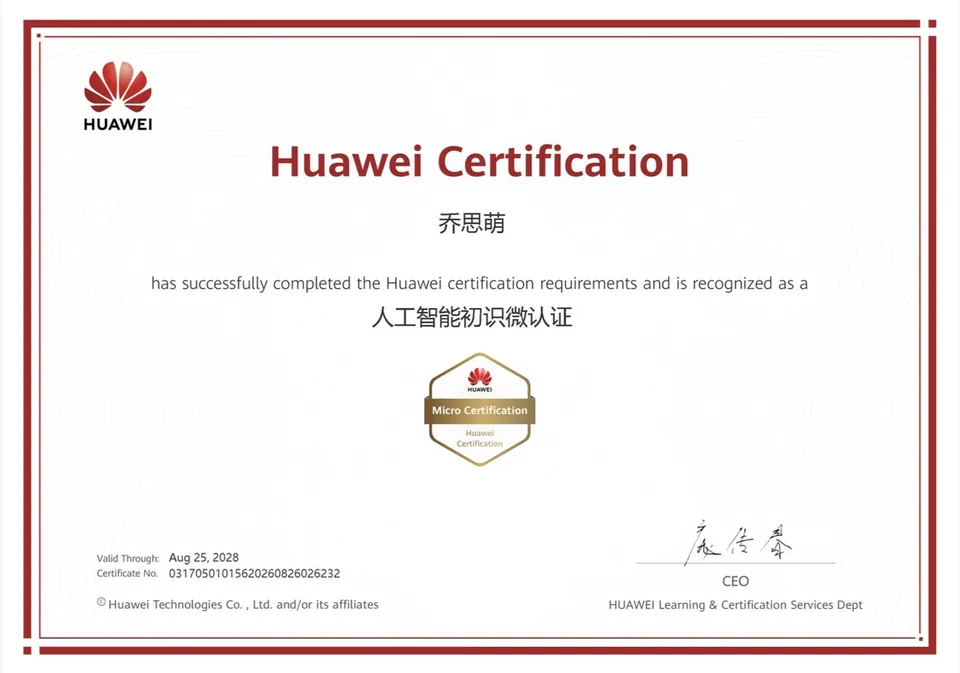
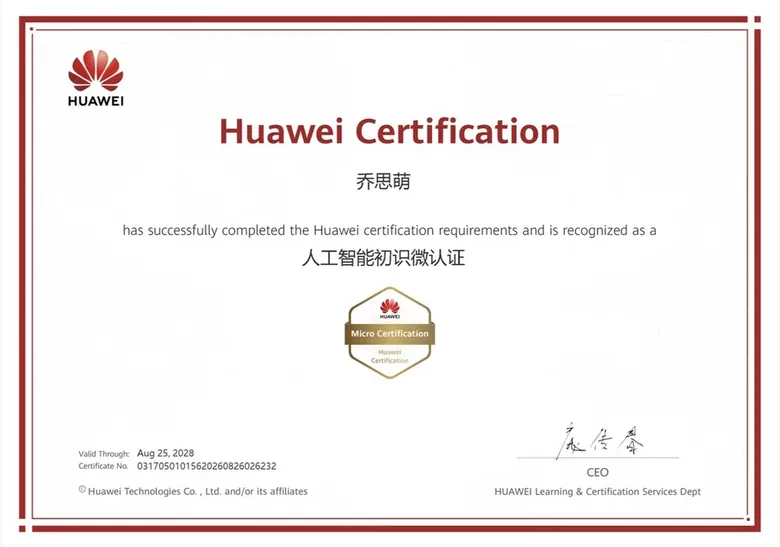
Cut gate payload 17.1MB -> 10.7MB and image decode 291MB -> 29MB
The 'wait for every image' gate was taking 10+ minutes. Root causes, in order
of impact:

1. The blocking list included images that are only ever seen AFTER a click
   (11 certificate originals, 4 work detail banners, the resume evidence
   image, the NOVA gallery) plus 5 covers that nothing on the site
   referenced at all. 43 requests totalling 7.32 MB / 290.8 MB decoded.
2. All 43 were fired at once, saturating the connection pool and pushing
   the 8.5 MB model to the back of the queue.
3. The Image objects were only held in local variables, so in-flight loads
   were eligible for GC - if one was collected its callback never fired and
   the bar hung permanently.
4. onload was treated as 'ready', but it only means the bytes arrived; the
   real decode still happened during scrolling.
5. No timeout, so any stall trapped the visitor behind the gate.

What changed - visual quality is untouched throughout:

- Blocking set is now ONLY what is visible on the homepage (21 images,
  0.95 MB / 29.0 MB decoded). Click-only images moved to a deferred set
  (2.49 MB) warmed at idle after entrance, so clicking a certificate or a
  work still opens instantly.
- Images resized to their real display size x2 (retina-safe) and stored as
  WebP: certificate thumbs 960->780 (cards are max 390px), paper texture
  1672->560 (CSS tiles it at exactly 560px, so this is pixel-identical),
  detail banners 2800->2000, certificate originals 2800->2400 at q88 so
  certificate text stays crisp.
[…]

Changed region(s): [[0.5231, 0.4662, 0.5538, 0.4973], [0.4615, 0.4662, 0.4923, 0.4973]]

diff --git a/web/src/preloadAssets.ts b/web/src/preloadAssets.ts
@@ -34,63 +34,60 @@ const heroBytes = HERO_BACKGROUND_URL.includes('hero-scrapbook-mobile')
     ? 133_706
     : 196_272
 
-// 首页滚动时可见的图片（正常优先级，先加载）。
-// 字节数与 public/ 下的实际文件一致，用于让进度条按真实体积加权。
-const HOMEPAGE_IMAGES: ReadonlyArray<{ path: string; bytes: number }> = [
-  { path: 'images/bp.png', bytes: 8_391 },
-  { path: 'images/buzyzheng.png', bytes: 290_268 },
-  { path: 'images/english-competition-image-two.png', bytes: 359_151 },
-  { path: 'images/hotsar.jpg', bytes: 6_760 },
-  { path: 'scrapbook/paper-texture-seamless.webp', bytes: 65_336 },
-  { path: 'scrapbook/polaroid-frame-1.webp', bytes: 112_534 },
-  { path: 'works/covers/ad.jpg', bytes: 161_220 },
-  { path: 'works/covers/ai.png', bytes: 245_951 },
-  { path: 'works/covers/economics.png', bytes: 229_203 },
-  { path: 'works/covers/expression-writing-image-one.png', bytes: 737_849 },
-  { path: 'works/covers/expression.png', bytes: 250_891 },
-  { path: 'works/covers/graphics.jpg', bytes: 157_328 },
-  { path: 'works/covers/maker.jpg', bytes: 92_488 },
-  { path: 'works/covers/product.jpg', bytes: 210_535 },
-  { path: 'works/covers/programming.png', bytes: 572_984 },
+// 阻塞开门的图片：只包含「进入主页就能看到」的部分。
+//
+// 之前把 43 张图（含点击才看的证书原图、详情 banner）全部塞进开门条件，
+// 实测导致进度条十几分钟都走不完，且解码内存高达 290MB。现在改为：
+//   · 进门可见的图 —— 照常等待，且尺寸已优化到显示尺寸的 2 倍（视网膜屏无损）
+//   · 点击才看的图 —— 画质完全不变，改为进门后空闲预热，不再占用开门时间
+// 字节数与 public/ 下的实际文件一致，保证进度条按真实体积加权。
+const BLOCKING_IMAGES: ReadonlyArray<{ path: string; bytes: number }> = [
   { path: 'works/optimized/ai-cover.webp', bytes: 51_368 },
   { path: 'works/optimized/economics-cover.webp', bytes: 47_548 },
   { path: 'works/optimized/expression-writing-cover.webp', bytes: 59_158 },
   { path: 'works/optimized/programming-cover.webp', bytes: 45_226 },
   { path: 'works/optimized/project-nova-cover.webp', bytes: 35_760 },
-  { path: 'works/nova/gallery-composite.jpg', bytes: 237_945 },
-  { path: 'certificates/thumbs/certificate-agent-engineer-ant.webp', bytes: 38_428 },
-  { path: 'certificates/thumbs/certificate-agent-engineer-iflytek.webp', bytes: 56_064 },
-  { path: 'certificates/thumbs/certificate-ai-coding-marscode.webp', bytes: 37_276 },
-  { path: 'certificates/thumbs/certificate-ai4s-python.webp', bytes: 49_570 },
-  { path: 'certificates/thumbs/certificate-alibaba-cloud-clouder.webp', bytes: 40_002 },
-  { path: 'certificates/thumbs/certificate-finetuning-engineer.webp', bytes: 55_726 },
-  { path: 'certificates/thumbs/certificate-huawei-ai-fundamentals.webp', bytes: 24_644 },
-  { path: 'certificates/thumbs/certificate-llm-development-datawhale.webp', bytes: 34_030 },
-  { path: 'certificates/thumbs/certificate-llm-engineer-virtai.webp', bytes: 47_596 },
-  { path: 'certificates/thumbs/certificate-prompt-engineer-iflytek.webp', bytes: 55_906 },
-  { path: 'certificates/thumbs/certificate-prompt-engineer-spark.webp', bytes: 36_060 },
+  { path: 'certificates/thumbs/certificate-agent-engineer-ant.webp', bytes: 28_242 },
+  { path: 'certificates/thumbs/certificate-agent-engineer-iflytek.webp', bytes: 37_244 },
+  { path: 'certificates/thumbs/certificate-ai-coding-marscode.webp', bytes: 28_586 },
+  { path: 'certificates/thumbs/certificate-ai4s-python.webp', bytes: 35_372 },
+  { path: 'certificates/thumbs/certificate-alibaba-cloud-clouder.webp', bytes: 27_798 },
+  { path: 'certificates/thumbs/certificate-finetuning-engineer.webp', bytes: 37_066 },
+  { path: 'certificates/thumbs/certificate-huawei-ai-fundamentals.webp', bytes: 17_252 },
+  { path: 'certificates/thumbs/certificate-llm-development-datawhale.webp', bytes: 26_144 },
+  { path: 'certificates/thumbs/certificate-llm-engineer-virtai.webp', bytes: 34_460 },
+  { path: 'certificates/thumbs/certificate-prompt-engineer-iflytek.webp', bytes: 37_152 },
+  { path: 'certificates/thumbs/certificate-prompt-engineer-spark.webp', bytes: 26_530 },
+  { path: 'scrapbook/paper-texture-seamless.webp', bytes: 6_598 },
+  { path: 'scrapbook/polaroid-frame-1.webp', bytes: 112_534 },
+  { path: 'images/buzyzheng.png', bytes: 290_268 },
+  { path: 'images/bp.png', bytes: 8_391 },
+  { path: 'images/hotsar.jpg', bytes: 6_760 },
 ]
 
-// 点击才查看的证书原图：开门前同样要等它就绪，但用 low 优先级，
-// 不与 3D 人物模型抢带宽（模型先到，原图随后补齐）。
-const CLICK_ONLY_IMAGES: ReadonlyArray<{ path: string; bytes: number }> = [
-  { path: 'certificates/originals/certificate-agent-engineer-ant.png', bytes: 346_365 },
-  { path: 'certificates/originals/certificate-agent-engineer-iflytek.png', bytes: 365_016 },
-  { path: 'certificates/originals/certificate-ai-coding-marscode.png', bytes: 148_570 },
-  { path: 'certificates/originals/certificate-ai4s-python.png', bytes: 452_837 },
-  { path: 'certificates/originals/certificate-alibaba-cloud-clouder.png', bytes: 198_017 },
-  { path: 'certificates/originals/certificate-finetuning-engineer.png', bytes: 363_057 },
-  { path: 'certificates/originals/certificate-huawei-ai-fundamentals.png', bytes: 165_136 },
-  { path: 'certificates/originals/certificate-llm-development-datawhale.png', bytes: 118_646 },
-  { path: 'certificates/originals/certificate-llm-engineer-virtai.png', bytes: 384_353 },
-  { path: 'certificates/originals/certificate-prompt-engineer-iflytek.png', bytes: 363_434 },
-  { path: 'certificates/originals/certificate-prompt-engineer-spark.png', bytes: 319_779 },
+// 点击才查看的图片：画质保持原样（证书 2400px、详情 banner 2000px），
+// 但不在开门时下载；进门后空闲时段再低优先级预热，保证真点开时依然秒开。
+const DEFERRED_IMAGES: ReadonlyArray<string> = [
+  'certificates/originals/certificate-agent-engineer-ant.webp',
+  'certificates/originals/certificate-agent-engineer-iflytek.webp',
+  'certificates/originals/certificate-ai-coding-marscode.webp',
+  'certificates/originals/certificate-ai4s-python.webp',
+  'certificates/originals/certificate-alibaba-cloud-clouder.webp',
+  'certificates/originals/certificate-finetuning-engineer.webp',
+  'certificates/originals/certificate-huawei-ai-fundamentals.webp',
+  'certificates/originals/certificate-llm-development-datawhale.webp',
+  'certificates/originals/certificate-llm-engineer-virtai.webp',
+  'certificates/originals/certificate-prompt-engineer-iflytek.webp',
+  'certificates/originals/certificate-prompt-engineer-spark.webp',
+  'works/covers/ai.webp',
+  'works/covers/economics.webp',
+  'works/covers/expression-writing-image-one.webp',
+  'works/covers/programming.webp',
+  'images/english-competition-image-two.png',
+  'works/nova/gallery-composite.webp',
 ]
 
-const IMAGE_MANIFEST: ReadonlyArray<{ path: string; bytes: number; lowPriority: boolean }> = [
-  ...HOMEPAGE_IMAGES.map((image) => ({ ...image, lowPriority: false })),
-  ...CLICK_ONLY_IMAGES.map((image) => ({ ...image, lowPriority: true })),
-]
+const IMAGE_MANIFEST = BLOCKING_IMAGES
 
 const IMAGE_TOTAL_BYTES = IMAGE_MANIFEST.reduce((sum, image) => sum + image.bytes, 0)
 
@@ -253,36 +250,97 @@ function installHeroTimingObserver() {
   observer.observe({ type: 'resource', buffered: true })
 }
 
-// 预热全部图片并把完成度计入进度条。图片不走 fetch，因此按「每张完成即计入其
-// 体积」累加到聚合资源上——43 张图足以让进度条平滑推进。
+// 预热「进门即可见」的图片并计入进度。
+//
+// 修正了导致「10 分钟没下载完」的四个问题：
+//  1. 限并发（6）——之前 43 张一次性打出，把连接池打满，8.5MB 的 3D 模型被挤到队尾，
+//     总体反而更慢；限并发后模型先下完，总耗时更短。
+//  2. 持有 Image 引用——之前图片只存在局部变量里，未完成的加载可能被 GC 取消，
+//     回调永不触发，进度条会永久卡住（最可能的卡死原因）。
+//  3. 用 decode()——onload 只代表字节到达，不代表可以无成本绘制；
+//     decode() 之后「100%」才真正等于可用，滚动时不会再有解码掉帧。
+//  4. 硬超时——任何异常都不会把访客永久挡在门外。
+const IMAGE_CONCURRENCY = 6
+const IMAGE_TIMEOUT_MS = 20_000
+const pendingImages: HTMLImageElement[] = [] // 持有引用，防止未完成的加载被 GC
+
 function preloadImages() {
   const aggregate = resources.images
   if (aggregate.ready) return
   let settled = 0
   let loaded = 0
+  let stopped = false
 
-  const registerDone = (bytes: number) => {
-    loaded = Math.min(loaded + bytes, aggregate.totalBytes)
-    aggregate.loadedBytes = loaded
-    settled += 1
-    if (settled >= IMAGE_MANIFEST.length) {
-      aggregate.loadedBytes = aggregate.totalBytes
-      aggregate.downloadComplete = true
-      aggregate.ready = true
-    }
+  const finish = () => {
+    if (aggregate.ready) return
+    aggregate.loadedBytes = aggregate.totalBytes
+    aggregate.downloadComplete = true
+    aggregate.ready = true
     publish()
   }
 
-  IMAGE_MANIFEST.forEach(({ path, bytes, lowPriority }) => {
+  const registerDone = (bytes: number) => {
+    if (stopped) return
+    loaded = Math.min(loaded + bytes, aggregate.totalBytes)
+    aggregate.loadedBytes = loaded
+    settled += 1
+    if (settled >= IMAGE_MANIFEST.length) finish()
+    else publish()
+  }
+
+  // 硬超时兜底
+  window.setTimeout(() => {
+    stopped = true
+    finish()
+  }, IMAGE_TIMEOUT_MS)
+
+  let cursor = 0
+  const startNext = () => {
+    if (stopped || cursor >= IMAGE_MANIFEST.length) return
+    const entry = IMAGE_MANIFEST[cursor]
+    cursor += 1
     const image = new Image()
     image.decoding = 'async'
-    // 证书原图低优先级：仍然计入进度、仍然阻塞开门，但不与 3D 模型争夺带宽
-    if (lowPriority && 'fetchPriority' in image) image.fetchPriority = 'low'
-    // 单张失败不阻塞开门：照常计入完成，避免一张 404 让进度条永远停在 99%
-    image.onload = () => registerDone(bytes)
-    image.onerror = () => registerDone(bytes)
-    image.src = absoluteAssetUrl(path)
-  })
+    pendingImages.push(image)
+    const done = () => {
+      registerDone(entry.bytes)
+      startNext() // 完成一个补一个，维持有限并发
+    }
+    image.onload = () => {
+      // decode() 让「100%」代表真正可用，而不是仅代表下载完成
+      const withDecode = image as HTMLImageElement & { decode?: () => Promise<void> }
+      if (typeof withDecode.decode === 'function') {
+        withDecode.decode().then(done, done)
+      } else {
+        done()
+      }
+    }
+    image.onerror = done // 单张失败不阻塞开门
+    image.src = absoluteAssetUrl(entry.path)
+  }
+
+  for (let i = 0; i < IMAGE_CONCURRENCY; i += 1) startNext()
+}
+
+// 进门之后再空闲预热「点击才看」的图：画质完全不变，只是不与开门抢带宽。
+let deferredWarmed = false
+export function warmDeferredImages() {
+  if (deferredWarmed || typeof window === 'undefined') return
+  deferredWarmed = true
+  const run = () => {
+    DEFERRED_IMAGES.forEach((path) => {
+      const image = new Image()
+      image.decoding = 'async'
+      if ('fetchPriority' in image) image.fetchPriority = 'low'
+      pendingImages.push(image)
+      image.src = absoluteAssetUrl(path)
+    })
+  }
+  const idle = (window as unknown as {
+    requestIdleCallback?: (cb: () => void, o?: { timeout: number }) => number
+  }).requestIdleCallback
+  if (idle) idle(run, { timeout: 6_000 })
+  else window.setTimeout(run, 3_000)
 }
 
 export function preloadCriticalAssets() {

diff --git a/web/src/data/certificates.ts b/web/src/data/certificates.ts
@@ -23,7 +23,7 @@ export const CERTIFICATES: Certificate[] = [
     category: { zh: '大模型 · 智能体', en: 'LLM · Agent' },
     date: { zh: '有效至 2028.08.01', en: 'Valid through 2028.08.01' },
     thumbnail: `${base}certificates/thumbs/certificate-alibaba-cloud-clouder.webp`,
-    original: `${base}certificates/originals/certificate-alibaba-cloud-clouder.png`,
+    original: `${base}certificates/originals/certificate-alibaba-cloud-clouder.webp`,
     featured: true,
     layout: 'wide',
   },
@@ -34,7 +34,7 @@ export const CERTIFICATES: Certificate[] = [
     category: { zh: '智能体工程', en: 'Agent Engineering' },
     date: { zh: '2026 年 8 月', en: 'August 2026' },
     thumbnail: `${base}certificates/thumbs/certificate-agent-engineer-ant.webp`,
-    original: `${base}certificates/originals/certificate-agent-engineer-ant.png`,
+    original: `${base}certificates/originals/certificate-agent-engineer-ant.webp`,
     featured: true,
   },
   {
@@ -43,7 +43,7 @@ export const CERTIFICATES: Certificate[] = [
     issuer: 'Datawhale',
     category: { zh: '大模型开发', en: 'LLM Development' },
     thumbnail: `${base}certificates/thumbs/certificate-llm-development-datawhale.webp`,
-    original: `${base}certificates/originals/certificate-llm-development-datawhale.png`,
+    original: `${base}certificates/originals/certificate-llm-development-datawhale.webp`,
     featured: true,
   },
   {
@@ -52,7 +52,7 @@ export const CERTIFICATES: Certificate[] = [
     issuer: 'Datawhale × VirtAI Cloud × HAAI',
     category: { zh: '大模型开发', en: 'LLM Development' },
     thumbnail: `${base}certificates/thumbs/certificate-llm-engineer-virtai.webp`,
-    original: `${base}certificates/originals/certificate-llm-engineer-virtai.png`,
+    original: `${base}certificates/originals/certificate-llm-engineer-virtai.webp`,
   },
   {
     id: 'ai-coding-marscode',
@@ -61,7 +61,7 @@ export const CERTIFICATES: Certificate[] = [
     category: { zh: 'AI 编程', en: 'AI Programming' },
     date: { zh: '2026.08.26', en: '2026.08.26' },
     thumbnail: `${base}certificates/thumbs/certificate-ai-coding-marscode.webp`,
-    original: `${base}certificates/originals/certificate-ai-coding-marscode.png`,
+    original: `${base}certificates/originals/certificate-ai-coding-marscode.webp`,
   },
   {
     id: 'ai4s-python',
@@ -70,7 +70,7 @@ export const CERTIFICATES: Certificate[] = [
     category: { zh: 'Python · AI for Science', en: 'Python · AI for Science' },
     date: { zh: '2026.08.26', en: '2026.08.26' },
     thumbnail: `${base}certificates/thumbs/certificate-ai4s-python.webp`,
-    original: `${base}certificates/originals/certificate-ai4s-python.png`,
+    original: `${base}certificates/originals/certificate-ai4s-python.webp`,
   },
   {
     id: 'prompt-engineer-iflytek',
@@ -79,7 +79,7 @@ export const CERTIFICATES: Certificate[] = [
     category: { zh: '提示词工程', en: 'Prompt Engineering' },
     date: { zh: '有效至 2028.08.26', en: 'Valid through 2028.08.26' },
     thumbnail: `${base}certificates/thumbs/certificate-prompt-engineer-iflytek.webp`,
-    original: `${base}certificates/originals/certificate-prompt-engineer-iflytek.png`,
+    original: `${base}certificates/originals/certificate-prompt-engineer-iflytek.webp`,
   },
   {
     id: 'finetuning-engineer',
@@ -88,7 +88,7 @@ export const CERTIFICATES: Certificate[] = [
     category: { zh: '大模型微调', en: 'LLM Fine-tuning' },
     date: { zh: '有效至 2028.08.26', en: 'Valid through 2028.08.26' },
     thumbnail: `${base}certificates/thumbs/certificate-finetuning-engineer.webp`,
-    original: `${base}certificates/originals/certificate-finetuning-engineer.png`,
+    original: `${base}certificates/originals/certificate-finetuning-engineer.webp`,
   },
   {
     id: 'agent-engineer-iflytek',
@@ -97,7 +97,7 @@ export const CERTIFICATES: Certificate[] = [
     category: { zh: '智能体工程', en: 'Agent Engineering' },
     date: { zh: '有效至 2028.08.26', en: 'Valid through 2028.08.26' },
     thumbnail: `${base}certificates/thumbs/certificate-agent-engineer-iflytek.webp`,
-    original: `${base}certificates/originals/certificate-agent-engineer-iflytek.png`,
+    original: `${base}certificates/originals/certificate-agent-engineer-iflytek.webp`,
   },
   {
     id: 'prompt-engineer-spark',
@@ -105,7 +105,7 @@ export const CERTIFICATES: Certificate[] = [
     issuer: 'Datawhale × 讯飞星火',
     category: { zh: '提示词工程', en: 'Prompt Engineering' },
     thumbnail: `${base}certificates/thumbs/certificate-prompt-engineer-spark.webp`,
-    original: `${base}certificates/originals/certificate-prompt-engineer-spark.png`,
+    original: `${base}certificates/originals/certificate-prompt-engineer-spark.webp`,
   },
   {
     id: 'huawei-ai-fundamentals',
@@ -114,6 +114,6 @@ export const CERTIFICATES: Certificate[] = [
     category: { zh: 'AI 基础', en: 'AI Foundations' },
     date: { zh: '有效至 2028.08.25', en: 'Valid through 2028.08.25' },
     thumbnail: `${base}certificates/thumbs/certificate-huawei-ai-fundamentals.webp`,
-    original: `${base}certificates/originals/certificate-huawei-ai-fundamentals.png`,
+    original: `${base}certificates/originals/certificate-huawei-ai-fundamentals.webp`,
   },
 ]

diff --git a/web/src/data/projectNova.ts b/web/src/data/projectNova.ts
@@ -1,6 +1,6 @@
 // PROJECT NOVA — Case Study 内容数据（单项目，结构化存储，便于后续维护）。
 // 全部文字以用户提供的真实资料为准，未做任何虚构。
-// 图片：当前仅有 1 张 6 画面总图（gallery-composite.jpg），未裁切；
+// 图片：当前仅有 1 张 6 画面总图（gallery-composite.webp），未裁切；
 // 后续若提供 6 张原图，只需替换 gallery[] 的 thumb 字段并在 CSS 中启用即可。
 
 export interface NovaRoleSection {
@@ -65,7 +65,7 @@ export const projectNova: ProjectNova = {
     'QA',
     'Iteration',
   ],
-  composite: `${BASE}works/nova/gallery-composite.jpg`,
+  composite: `${BASE}works/nova/gallery-composite.webp`,
 
   // ── 01 / PROJECT BACKGROUND ──
   background: [

diff --git a/web/src/App.tsx b/web/src/App.tsx
@@ -6,6 +6,7 @@ import {
   markCriticalResourceError,
   markCriticalResourceReady,
   subscribeCriticalResources,
+  warmDeferredImages,
 } from './preloadAssets'
 
 // These two chunks start in parallel behind the lightweight HTML gate. The
@@ -78,6 +79,12 @@ export default function App() {
     return () => {
       document.body.style.overflow = ''
     }
+  }, [showGate])
+
+  // 进门之后再预热「点击才查看」的图（详情 banner / 证书原图 / 简历佐证图）。
+  // 这些画质完全没动，只是不再占用开门时间——点开时依然即时显示。
+  useEffect(() => {
+    if (!showGate) warmDeferredImages()
   }, [showGate])
 
   // Smoothly catch up to measured progress, never beyond its safe ceiling.

diff --git a/web/src/content/works/expression-writing.md b/web/src/content/works/expression-writing.md
@@ -1,6 +1,6 @@
 ---
 title: 表达与写作
-banner: /works/covers/expression-writing-image-one.png
+banner: /works/covers/expression-writing-image-one.webp
 year: 2026 -
 role: 学习方向
 tags: [写作, 英语, 沟通协作]

diff --git a/web/src/content/works/economics-learning.md b/web/src/content/works/economics-learning.md
@@ -1,6 +1,6 @@
 ---
 title: 经济学学习
-banner: /works/covers/economics.png
+banner: /works/covers/economics.webp
 year: 2026 -
 role: 学习方向
 tags: [微观经济学, 宏观经济学, 金融市场, 数据思维]

diff --git a/web/src/content/works/programming-learning.md b/web/src/content/works/programming-learning.md
@@ -1,6 +1,6 @@
 ---
 title: 编程学习
-banner: /works/covers/programming.png
+banner: /works/covers/programming.webp
 year: 2026 -
 role: 学习方向
 tags: [C Language, Python, 逻辑思维]

diff --git a/web/src/content/works/ai-exploration.md b/web/src/content/works/ai-exploration.md
@@ -1,6 +1,6 @@
 ---
 title: AI 探索
-banner: /works/covers/ai.png
+banner: /works/covers/ai.webp
 year: 2026 -
 role: 学习方向
 tags: [AI 应用, 提示词, 学习效率]
